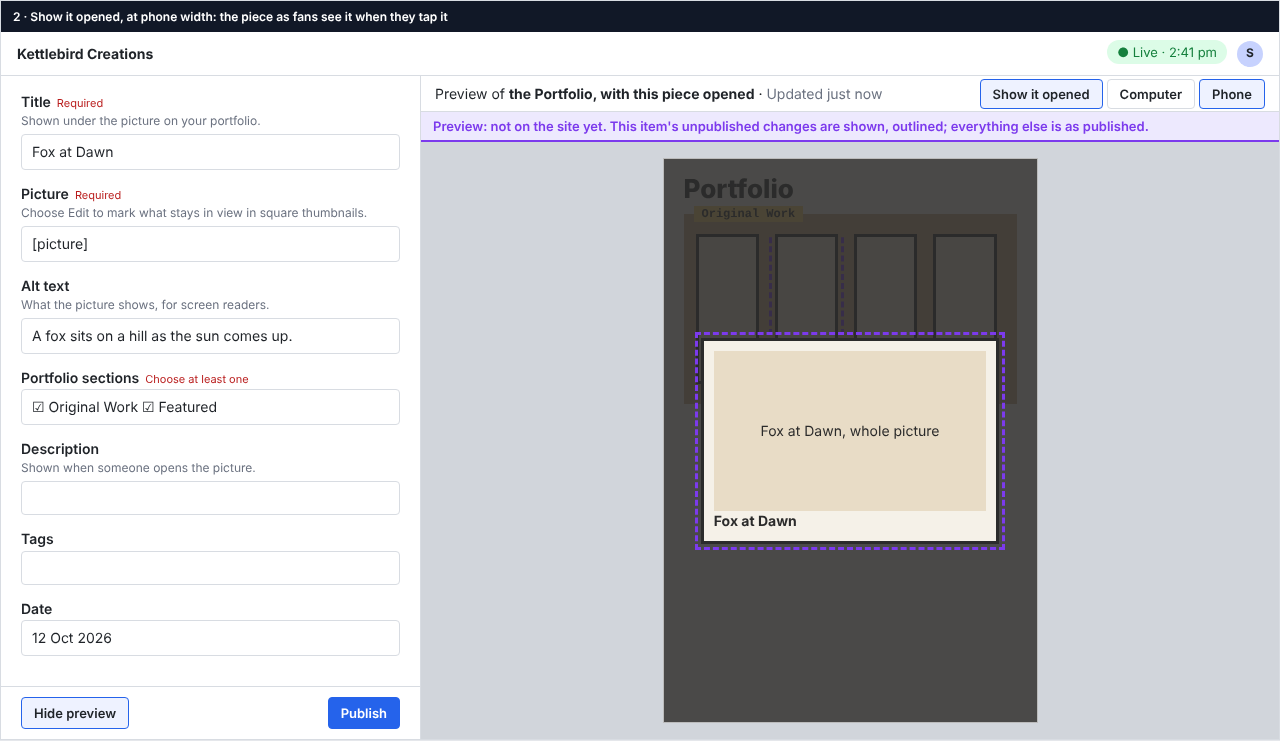
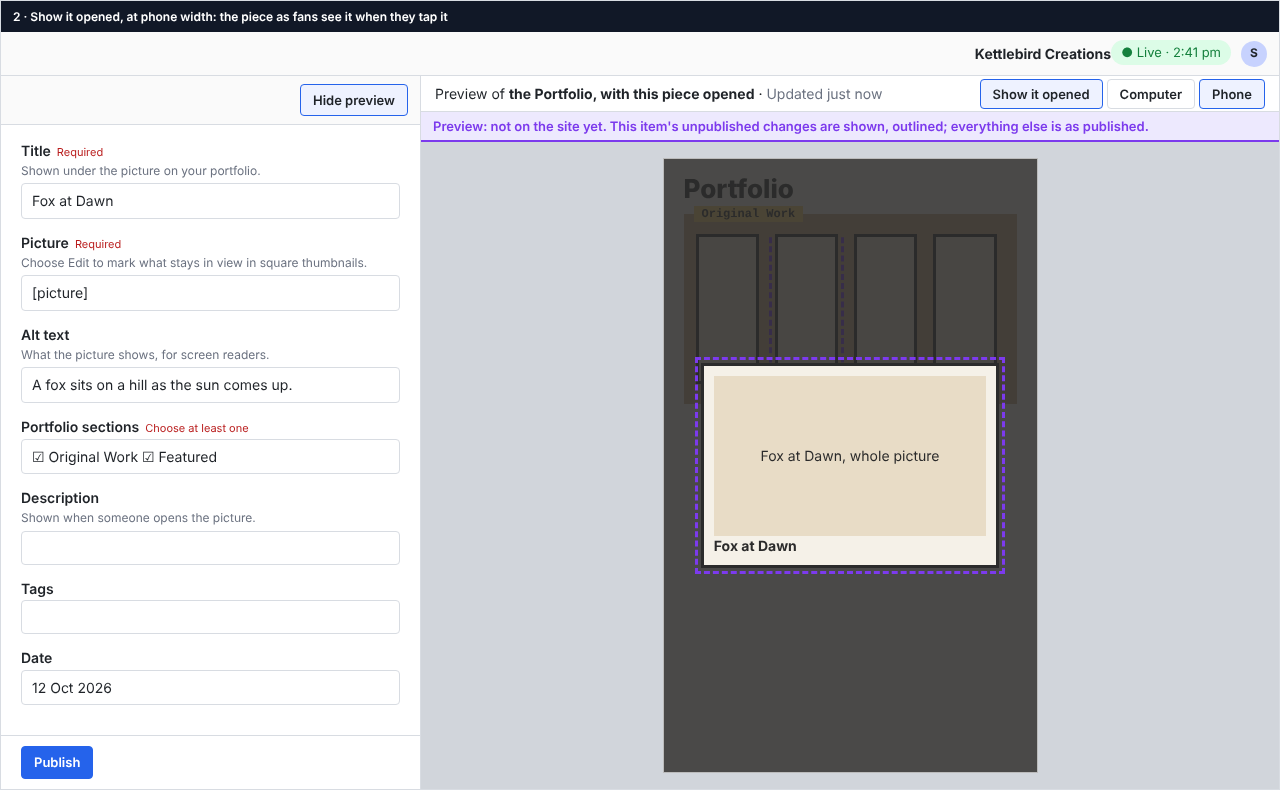
Preview design and guide: Preview at the top of the item, outlined parts, unpublished series (#100)
Lead's decisions (2026-11-03) after research for the spec: Sanity draws
only one button beside Publish, so Preview and Hide preview sit at the top
of the item; the menu and list narrow rather than fold away; a changed
part is outlined whole; a chapter of a never-published series shows the
series' draft too; the build never reads the draft-reading key, and the
build check also looks for the key. Mock-ups re-rendered.

Claude-Session: https://claude.ai/code/session_01HWRLNSVAoX5Ni8d8XcwJh1

diff --git a/docs/design/mockups/preview/mockups.html b/docs/design/mockups/preview/mockups.html
@@ -49,61 +49,62 @@
   .band .lab { position:absolute; top:-8px; left:10px; background:#f4ce6a; padding:1px 8px; font:600 12px ui-monospace,monospace; }
   .modal { position:absolute; inset:0; background:rgba(43,43,43,.85); display:flex; align-items:center; justify-content:center; }
   .modal .box { background:#f5f1e8; border:3px solid #2b2b2b; width:80%; padding:10px; font-family:system-ui; }
+  .top { display: flex; justify-content: flex-end; padding: 8px 12px; border-bottom: 1px solid var(--line); background: #fafafa; }
 </style>
 </head>
 <body>
 <div class="frame" id="m1">
 <h6>1 · An art piece: the preview at computer width, scrolled to the piece in its first portfolio section</h6>
 <div class="top"><strong>Kettlebird Creations</strong><span><span class="status">● Live · 2:41 pm</span><span class="avatar">S</span></span></div>
-<div class="split"><div class="form"><div class="doc"><div class="field"><label>Title<span class="req">Required</span></label><p class="help">Shown under the picture on your portfolio.</p><div class="input">Fox at Dawn</div></div><div class="field"><label>Picture<span class="req">Required</span></label><p class="help">Choose Edit to mark what stays in view in square thumbnails.</p><div class="input">[picture]</div></div><div class="field"><label>Alt text</label><p class="help">What the picture shows, for screen readers.</p><div class="input">A fox sits on a hill as the sun comes up.</div></div><div class="field"><label>Portfolio sections<span class="req">Choose at least one</span></label><div class="input">☑ Original Work ☑ Featured</div></div><div class="field"><label>Description</label><p class="help">Shown when someone opens the picture.</p><div class="input"></div></div><div class="field"><label>Tags</label><div class="input"></div></div><div class="field"><label>Date</label><div class="input">12 Oct 2026</div></div></div><div class="bar"><span class="btn on">Hide preview</span><span class="btn primary">Publish</span></div></div><div class="pv"><div class="pvbar"><span>Preview of <strong>the Portfolio</strong> · <span style="color:var(--muted)">Updated just now</span></span><span> <span class="btn">Show it opened</span> <span><span class="btn on">Computer</span> <span class="btn">Phone</span></span></span></div><div class="ribbon">Preview: not on the site yet. This item&#39;s unpublished changes are shown, outlined; everything else is as published.</div><div class="hint">Not visible on the page: <strong>alt text</strong> (read by screen readers). Also in: Featured.</div><div class="stage"><div class="page" style="position:relative"><div class="site"><h1>Portfolio</h1><p class="note">Index: All · Original Work · Fan Work · Featured</p><div class="band"><span class="lab">Original Work</span><div class="carousel"><span class="card">&nbsp;</span><span class="card chg">&nbsp;</span><span class="card">&nbsp;</span><span class="card">&nbsp;</span></div></div><p class="note">Scrolled to Original Work, the first of its sections, with the carousel moved to the piece. Titles show on hover, as on the site.</p></div></div></div></div></div>
+<div class="split"><div class="form"><div class="top"><span class="btn on">Hide preview</span></div><div class="doc"><div class="field"><label>Title<span class="req">Required</span></label><p class="help">Shown under the picture on your portfolio.</p><div class="input">Fox at Dawn</div></div><div class="field"><label>Picture<span class="req">Required</span></label><p class="help">Choose Edit to mark what stays in view in square thumbnails.</p><div class="input">[picture]</div></div><div class="field"><label>Alt text</label><p class="help">What the picture shows, for screen readers.</p><div class="input">A fox sits on a hill as the sun comes up.</div></div><div class="field"><label>Portfolio sections<span class="req">Choose at least one</span></label><div class="input">☑ Original Work ☑ Featured</div></div><div class="field"><label>Description</label><p class="help">Shown when someone opens the picture.</p><div class="input"></div></div><div class="field"><label>Tags</label><div class="input"></div></div><div class="field"><label>Date</label><div class="input">12 Oct 2026</div></div></div><div class="bar"><span class="btn primary">Publish</span></div></div><div class="pv"><div class="pvbar"><span>Preview of <strong>the Portfolio</strong> · <span style="color:var(--muted)">Updated just now</span></span><span> <span class="btn">Show it opened</span> <span><span class="btn on">Computer</span> <span class="btn">Phone</span></span></span></div><div class="ribbon">Preview: not on the site yet. This item&#39;s unpublished changes are shown, outlined; everything else is as published.</div><div class="hint">Not visible on the page: <strong>alt text</strong> (read by screen readers). Also in: Featured.</div><div class="stage"><div class="page" style="position:relative"><div class="site"><h1>Portfolio</h1><p class="note">Index: All · Original Work · Fan Work · Featured</p><div class="band"><span class="lab">Original Work</span><div class="carousel"><span class="card">&nbsp;</span><span class="card chg">&nbsp;</span><span class="card">&nbsp;</span><span class="card">&nbsp;</span></div></div><p class="note">Scrolled to Original Work, the first of its sections, with the carousel moved to the piece. Titles show on hover, as on the site.</p></div></div></div></div></div>
 </div>
 
 <div class="frame" id="m2">
 <h6>2 · Show it opened, at phone width: the piece as fans see it when they tap it</h6>
 <div class="top"><strong>Kettlebird Creations</strong><span><span class="status">● Live · 2:41 pm</span><span class="avatar">S</span></span></div>
-<div class="split"><div class="form"><div class="doc"><div class="field"><label>Title<span class="req">Required</span></label><p class="help">Shown under the picture on your portfolio.</p><div class="input">Fox at Dawn</div></div><div class="field"><label>Picture<span class="req">Required</span></label><p class="help">Choose Edit to mark what stays in view in square thumbnails.</p><div class="input">[picture]</div></div><div class="field"><label>Alt text</label><p class="help">What the picture shows, for screen readers.</p><div class="input">A fox sits on a hill as the sun comes up.</div></div><div class="field"><label>Portfolio sections<span class="req">Choose at least one</span></label><div class="input">☑ Original Work ☑ Featured</div></div><div class="field"><label>Description</label><p class="help">Shown when someone opens the picture.</p><div class="input"></div></div><div class="field"><label>Tags</label><div class="input"></div></div><div class="field"><label>Date</label><div class="input">12 Oct 2026</div></div></div><div class="bar"><span class="btn on">Hide preview</span><span class="btn primary">Publish</span></div></div><div class="pv"><div class="pvbar"><span>Preview of <strong>the Portfolio, with this piece opened</strong> · <span style="color:var(--muted)">Updated just now</span></span><span> <span class="btn on">Show it opened</span> <span><span class="btn">Computer</span> <span class="btn on">Phone</span></span></span></div><div class="ribbon">Preview: not on the site yet. This item&#39;s unpublished changes are shown, outlined; everything else is as published.</div><div class="stage"><div class="page phone" style="position:relative"><div class="site" style="min-height:420px"><h1>Portfolio</h1><div class="band"><span class="lab">Original Work</span><div class="carousel"><span class="card">&nbsp;</span><span class="card chg">&nbsp;</span><span class="card">&nbsp;</span><span class="card">&nbsp;</span></div></div><div class="modal"><div class="box chg"><div style="height:160px;background:#e8dcc6;display:flex;align-items:center;justify-content:center">Fox at Dawn, whole picture</div><strong>Fox at Dawn</strong></div></div></div></div></div></div></div>
+<div class="split"><div class="form"><div class="top"><span class="btn on">Hide preview</span></div><div class="doc"><div class="field"><label>Title<span class="req">Required</span></label><p class="help">Shown under the picture on your portfolio.</p><div class="input">Fox at Dawn</div></div><div class="field"><label>Picture<span class="req">Required</span></label><p class="help">Choose Edit to mark what stays in view in square thumbnails.</p><div class="input">[picture]</div></div><div class="field"><label>Alt text</label><p class="help">What the picture shows, for screen readers.</p><div class="input">A fox sits on a hill as the sun comes up.</div></div><div class="field"><label>Portfolio sections<span class="req">Choose at least one</span></label><div class="input">☑ Original Work ☑ Featured</div></div><div class="field"><label>Description</label><p class="help">Shown when someone opens the picture.</p><div class="input"></div></div><div class="field"><label>Tags</label><div class="input"></div></div><div class="field"><label>Date</label><div class="input">12 Oct 2026</div></div></div><div class="bar"><span class="btn primary">Publish</span></div></div><div class="pv"><div class="pvbar"><span>Preview of <strong>the Portfolio, with this piece opened</strong> · <span style="color:var(--muted)">Updated just now</span></span><span> <span class="btn on">Show it opened</span> <span><span class="btn">Computer</span> <span class="btn on">Phone</span></span></span></div><div class="ribbon">Preview: not on the site yet. This item&#39;s unpublished changes are shown, outlined; everything else is as published.</div><div class="stage"><div class="page phone" style="position:relative"><div class="site" style="min-height:420px"><h1>Portfolio</h1><div class="band"><span class="lab">Original Work</span><div class="carousel"><span class="card">&nbsp;</span><span class="card chg">&nbsp;</span><span class="card">&nbsp;</span><span class="card">&nbsp;</span></div></div><div class="modal"><div class="box chg"><div style="height:160px;background:#e8dcc6;display:flex;align-items:center;justify-content:center">Fox at Dawn, whole picture</div><strong>Fox at Dawn</strong></div></div></div></div></div></div></div>
 </div>
 
 <div class="frame" id="m3">
 <h6>3 · A chapter: the preview follows the page open in the page panel</h6>
 <div class="top"><strong>Kettlebird Creations</strong><span><span class="status">● Live · 2:41 pm</span><span class="avatar">S</span></span></div>
-<div class="split"><div class="form"><div class="doc"><div class="field"><label>Chapter<span class="req">Required</span></label><div class="input">2</div></div><div class="field"><label>Title</label><div class="input">The Long Road</div></div><div class="field"><label>Pages</label><div class="input">[24 thumbnails] · page 3 open</div></div><div class="field" style="border:1px solid var(--line);border-radius:6px;padding:10px;background:#fafafa"><label>Page 3</label><div class="input" style="height:70px">[page image]</div><div class="field"><label>Alt text</label><div class="input">Fox and Kettle cross the river at dusk.</div></div><span class="btn">Previous page</span> <span class="btn">Next page</span> <span class="btn">Done</span></div></div><div class="bar"><span class="btn on">Hide preview</span><span class="btn primary">Publish</span></div></div><div class="pv"><div class="pvbar"><span>Preview of <strong>Chapter 2, page 3 in the reader</strong> · <span style="color:var(--muted)">Updated just now</span></span><span> <span><span class="btn on">Computer</span> <span class="btn">Phone</span></span></span></div><div class="ribbon">Preview: not on the site yet. This item&#39;s unpublished changes are shown, outlined; everything else is as published.</div><div class="hint">Not visible on the page: <strong>alt text</strong>. Links in the preview don&#39;t go anywhere; choose another page in the chapter to preview it.</div><div class="stage"><div class="page" style="position:relative"><div class="site"><div class="note">← Back to series &nbsp;&nbsp; <strong>Chapter 2: The Long Road · Page 3 of 24</strong></div><div class="light chg" style="text-align:center"><div class="img" style="height:260px">page 3</div></div><div class="note">Previous page &nbsp; Next page</div></div></div></div></div></div>
+<div class="split"><div class="form"><div class="top"><span class="btn on">Hide preview</span></div><div class="doc"><div class="field"><label>Chapter<span class="req">Required</span></label><div class="input">2</div></div><div class="field"><label>Title</label><div class="input">The Long Road</div></div><div class="field"><label>Pages</label><div class="input">[24 thumbnails] · page 3 open</div></div><div class="field" style="border:1px solid var(--line);border-radius:6px;padding:10px;background:#fafafa"><label>Page 3</label><div class="input" style="height:70px">[page image]</div><div class="field"><label>Alt text</label><div class="input">Fox and Kettle cross the river at dusk.</div></div><span class="btn">Previous page</span> <span class="btn">Next page</span> <span class="btn">Done</span></div></div><div class="bar"><span class="btn primary">Publish</span></div></div><div class="pv"><div class="pvbar"><span>Preview of <strong>Chapter 2, page 3 in the reader</strong> · <span style="color:var(--muted)">Updated just now</span></span><span> <span><span class="btn on">Computer</span> <span class="btn">Phone</span></span></span></div><div class="ribbon">Preview: not on the site yet. This item&#39;s unpublished changes are shown, outlined; everything else is as published.</div><div class="hint">Not visible on the page: <strong>alt text</strong>. Links in the preview don&#39;t go anywhere; choose another page in the chapter to preview it.</div><div class="stage"><div class="page" style="position:relative"><div class="site"><div class="note">← Back to series &nbsp;&nbsp; <strong>Chapter 2: The Long Road · Page 3 of 24</strong></div><div class="light chg" style="text-align:center"><div class="img" style="height:260px">page 3</div></div><div class="note">Previous page &nbsp; Next page</div></div></div></div></div></div>
 </div>
 
 <div class="frame" id="m4">
 <h6>4 · A series</h6>
 <div class="top"><strong>Kettlebird Creations</strong><span><span class="status">● Live · 2:41 pm</span><span class="avatar">S</span></span></div>
-<div class="split"><div class="form"><div class="doc"><div class="field"><label>Title<span class="req">Required</span></label><div class="input">Kettle Tales</div></div><div class="field"><label>Web address<span class="req">Required</span></label><div class="input">kettle-tales</div></div><div class="field"><label>Cover</label><div class="input">[picture]</div></div><div class="field"><label>Description</label><div class="input">A fox and a kettle set out across the hills, and keep going.</div></div><div class="field"><label>Status</label><div class="input">Ongoing</div></div><div class="field"><label>Kind</label><div class="input">Original</div></div><div class="field"><label>Chapters</label><div class="input">Chapter 1 · Chapter 2</div></div></div><div class="bar"><span class="btn on">Hide preview</span><span class="btn primary">Publish</span></div></div><div class="pv"><div class="pvbar"><span>Preview of <strong>the Kettle Tales series page</strong> · <span style="color:var(--muted)">Updated just now</span></span><span> <span><span class="btn on">Computer</span> <span class="btn">Phone</span></span></span></div><div class="ribbon">Preview: not on the site yet. This item&#39;s unpublished changes are shown, outlined; everything else is as published.</div><div class="stage"><div class="page" style="position:relative"><div class="site"><div style="display:grid;grid-template-columns:150px 1fr;gap:16px"><div class="card" style="width:140px;height:200px">cover</div><div><h1>Kettle Tales</h1><p><span class="tag">Ongoing</span><span class="tag" style="background:#f5f1e8">Original</span></p><p class="chg">A fox and a kettle set out across the hills, and keep going.</p><span class="btn">Start reading</span></div></div><h2 style="font:700 16px system-ui;margin-top:12px">Chapters</h2><p class="note">Chapter 1: The Kettle · 3 pages<br>Chapter 2: The Long Road · 24 pages</p></div></div></div></div></div>
+<div class="split"><div class="form"><div class="top"><span class="btn on">Hide preview</span></div><div class="doc"><div class="field"><label>Title<span class="req">Required</span></label><div class="input">Kettle Tales</div></div><div class="field"><label>Web address<span class="req">Required</span></label><div class="input">kettle-tales</div></div><div class="field"><label>Cover</label><div class="input">[picture]</div></div><div class="field"><label>Description</label><div class="input">A fox and a kettle set out across the hills, and keep going.</div></div><div class="field"><label>Status</label><div class="input">Ongoing</div></div><div class="field"><label>Kind</label><div class="input">Original</div></div><div class="field"><label>Chapters</label><div class="input">Chapter 1 · Chapter 2</div></div></div><div class="bar"><span class="btn primary">Publish</span></div></div><div class="pv"><div class="pvbar"><span>Preview of <strong>the Kettle Tales series page</strong> · <span style="color:var(--muted)">Updated just now</span></span><span> <span><span class="btn on">Computer</span> <span class="btn">Phone</span></span></span></div><div class="ribbon">Preview: not on the site yet. This item&#39;s unpublished changes are shown, outlined; everything else is as published.</div><div class="stage"><div class="page" style="position:relative"><div class="site"><div style="display:grid;grid-template-columns:150px 1fr;gap:16px"><div class="card" style="width:140px;height:200px">cover</div><div><h1>Kettle Tales</h1><p><span class="tag">Ongoing</span><span class="tag" style="background:#f5f1e8">Original</span></p><p class="chg">A fox and a kettle set out across the hills, and keep going.</p><span class="btn">Start reading</span></div></div><h2 style="font:700 16px system-ui;margin-top:12px">Chapters</h2><p class="note">Chapter 1: The Kettle · 3 pages<br>Chapter 2: The Long Road · 24 pages</p></div></div></div></div></div>
 </div>
 
 <div class="frame" id="m5">
 <h6>5 · Site settings, Commissions: closing them</h6>
 <div class="top"><strong>Kettlebird Creations</strong><span><span class="status">● Live · 2:41 pm</span><span class="avatar">S</span></span></div>
-<div class="split"><div class="form"><div class="doc"><div class="field"><label>Commissions are…<span class="req">Required</span></label><div class="input">○ Open &nbsp; ◉ Closed</div></div><div class="field"><label>Note when closed</label><div class="input">Back in March.</div></div></div><div class="bar"><span class="btn on">Hide preview</span><span class="btn primary">Publish</span></div></div><div class="pv"><div class="pvbar"><span>Preview of <strong>the Commissions page</strong> · <span style="color:var(--muted)">Updated just now</span></span><span> <span><span class="btn on">Computer</span> <span class="btn">Phone</span></span></span></div><div class="ribbon">Preview: not on the site yet. This item&#39;s unpublished changes are shown, outlined; everything else is as published.</div><div class="hint">Removed from the page: <strong>How it works</strong>, <strong>Ready to order?</strong> and the commission email buttons.</div><div class="stage"><div class="page" style="position:relative"><div class="site"><h1>Commissions</h1><div class="banner chg"><span class="dot"></span><span><strong>Commissions are closed.</strong> Back in March.</span></div><p style="font-family:system-ui">These are the kinds of commission I take, for when they open again.</p></div></div></div></div></div>
+<div class="split"><div class="form"><div class="top"><span class="btn on">Hide preview</span></div><div class="doc"><div class="field"><label>Commissions are…<span class="req">Required</span></label><div class="input">○ Open &nbsp; ◉ Closed</div></div><div class="field"><label>Note when closed</label><div class="input">Back in March.</div></div></div><div class="bar"><span class="btn primary">Publish</span></div></div><div class="pv"><div class="pvbar"><span>Preview of <strong>the Commissions page</strong> · <span style="color:var(--muted)">Updated just now</span></span><span> <span><span class="btn on">Computer</span> <span class="btn">Phone</span></span></span></div><div class="ribbon">Preview: not on the site yet. This item&#39;s unpublished changes are shown, outlined; everything else is as published.</div><div class="hint">Removed from the page: <strong>How it works</strong>, <strong>Ready to order?</strong> and the commission email buttons.</div><div class="stage"><div class="page" style="position:relative"><div class="site"><h1>Commissions</h1><div class="banner chg"><span class="dot"></span><span><strong>Commissions are closed.</strong> Back in March.</span></div><p style="font-family:system-ui">These are the kinds of commission I take, for when they open again.</p></div></div></div></div></div>
 </div>
 
 <div class="frame" id="m6">
 <h6>6 · Site settings, Contact and social links: scrolled to the change</h6>
 <div class="top"><strong>Kettlebird Creations</strong><span><span class="status">● Live · 2:41 pm</span><span class="avatar">S</span></span></div>
-<div class="split"><div class="form"><div class="doc"><div class="field"><label>Contact email<span class="req">Required</span></label><div class="input">star@kettlebird.com</div></div><div class="field"><label>Social links</label><div class="input">Bluesky · Tumblr · Ko-fi</div></div></div><div class="bar"><span class="btn on">Hide preview</span><span class="btn primary">Publish</span></div></div><div class="pv"><div class="pvbar"><span>Preview of <strong>the home page, scrolled to the social links and footer</strong> · <span style="color:var(--muted)">Updated just now</span></span><span> <span><span class="btn on">Computer</span> <span class="btn">Phone</span></span></span></div><div class="ribbon">Preview: not on the site yet. This item&#39;s unpublished changes are shown, outlined; everything else is as published.</div><div class="hint">Removed: <strong>Instagram</strong> link. Not visible on the page: where the email buttons send people (now star@kettlebird.com).</div><div class="stage"><div class="page" style="position:relative"><div class="site"><p class="note">… home page, scrolled to the bottom …</p><p class="soc chg"><span class="btn">BLUESKY</span> <span class="btn">TUMBLR</span> <span class="btn">KO-FI</span></p></div><div style="background:#2b2b2b;color:#f5f1e8;padding:12px;font-family:system-ui" class="chg">Connect · Bluesky · Tumblr · Ko-fi &nbsp; Contact · star@kettlebird.com</div></div></div></div></div>
+<div class="split"><div class="form"><div class="top"><span class="btn on">Hide preview</span></div><div class="doc"><div class="field"><label>Contact email<span class="req">Required</span></label><div class="input">star@kettlebird.com</div></div><div class="field"><label>Social links</label><div class="input">Bluesky · Tumblr · Ko-fi</div></div></div><div class="bar"><span class="btn primary">Publish</span></div></div><div class="pv"><div class="pvbar"><span>Preview of <strong>the home page, scrolled to the social links and footer</strong> · <span style="color:var(--muted)">Updated just now</span></span><span> <span><span class="btn on">Computer</span> <span class="btn">Phone</span></span></span></div><div class="ribbon">Preview: not on the site yet. This item&#39;s unpublished changes are shown, outlined; everything else is as published.</div><div class="hint">Removed: <strong>Instagram</strong> link. Not visible on the page: where the email buttons send people (now star@kettlebird.com).</div><div class="stage"><div class="page" style="position:relative"><div class="site"><p class="note">… home page, scrolled to the bottom …</p><p class="soc chg"><span class="btn">BLUESKY</span> <span class="btn">TUMBLR</span> <span class="btn">KO-FI</span></p></div><div style="background:#2b2b2b;color:#f5f1e8;padding:12px;font-family:system-ui" class="chg">Connect · Bluesky · Tumblr · Ko-fi &nbsp; Contact · star@kettlebird.com</div></div></div></div></div>
 </div>
 
 <div class="frame" id="m7">
 <h6>7 · After Publish: the preview says so, and stops outlining once the site has it</h6>
 <div class="top"><strong>Kettlebird Creations</strong><span><span class="status">● Live · 2:41 pm</span><span class="avatar">S</span></span></div>
-<div class="split"><div class="form"><div class="doc"><div class="field"><label>Commissions are…<span class="req">Required</span></label><div class="input">○ Open &nbsp; ◉ Closed</div></div><div class="field"><label>Note when closed</label><div class="input">Back in March.</div></div></div><div class="bar"><span class="btn on">Hide preview</span><span class="btn primary">Publish</span></div></div><div class="pv"><div class="pvbar"><span>Preview of <strong>the Commissions page</strong> · <span style="color:var(--muted)">Updated just now</span></span><span> <span><span class="btn on">Computer</span> <span class="btn">Phone</span></span></span></div><div class="ribbon" style="background:#dcfce7;color:#15803d;border-color:#15803d">Published. The site matches this preview once the status at the top right says Live.</div><div class="stage"><div class="page" style="position:relative"><div class="site"><h1>Commissions</h1><div class="banner"><span class="dot"></span><span><strong>Commissions are closed.</strong> Back in March.</span></div></div></div></div></div></div>
+<div class="split"><div class="form"><div class="top"><span class="btn on">Hide preview</span></div><div class="doc"><div class="field"><label>Commissions are…<span class="req">Required</span></label><div class="input">○ Open &nbsp; ◉ Closed</div></div><div class="field"><label>Note when closed</label><div class="input">Back in March.</div></div></div><div class="bar"><span class="btn primary">Publish</span></div></div><div class="pv"><div class="pvbar"><span>Preview of <strong>the Commissions page</strong> · <span style="color:var(--muted)">Updated just now</span></span><span> <span><span class="btn on">Computer</span> <span class="btn">Phone</span></span></span></div><div class="ribbon" style="background:#dcfce7;color:#15803d;border-color:#15803d">Published. The site matches this preview once the status at the top right says Live.</div><div class="stage"><div class="page" style="position:relative"><div class="site"><h1>Commissions</h1><div class="banner"><span class="dot"></span><span><strong>Commissions are closed.</strong> Back in March.</span></div></div></div></div></div></div>
 </div>
 
 <div class="frame" id="m8">
-<h6>8 · Before the preview is open: Preview beside Publish</h6>
+<h6>8 · Before the preview is open: Preview at the top of the item</h6>
 <div class="top"><strong>Kettlebird Creations</strong><span><span class="status">● Live · 2:41 pm</span><span class="avatar">S</span></span></div>
-<div class="split" style="grid-template-columns:520px 1fr"><div class="form"><div class="doc"><div class="field"><label>Title<span class="req">Required</span></label><div class="input">Fox at Dawn</div></div><div class="field"><label>Picture<span class="req">Required</span></label><div class="input">[picture]</div></div></div><div class="bar"><span class="btn">Preview</span><span class="btn primary">Publish</span></div></div><div class="msg" style="background:#eef0f3">The item takes the full width until Preview is chosen. While the preview is open, the menu and the list fold away, and come back with Hide preview.</div></div>
+<div class="split" style="grid-template-columns:520px 1fr"><div class="form"><div class="top"><span class="btn">Preview</span></div><div class="doc"><div class="field"><label>Title<span class="req">Required</span></label><div class="input">Fox at Dawn</div></div><div class="field"><label>Picture<span class="req">Required</span></label><div class="input">[picture]</div></div></div><div class="bar"><span class="btn primary">Publish</span></div></div><div class="msg" style="background:#eef0f3">The item takes the full width until Preview is chosen. While the preview is open, the menu and the list narrow to make room (the editor folds them to thin strips when the window is narrow), and widen again with Hide preview.</div></div>
 </div>
 
 <div class="frame" id="m9">
 <h6>9 · When the preview can&#39;t show the page</h6>
 <div class="top"><strong>Kettlebird Creations</strong><span><span class="status">● Live · 2:41 pm</span><span class="avatar">S</span></span></div>
-<div style="display:grid;grid-template-columns:1fr 1fr 1fr;gap:12px;padding:12px"><div class="pv" style="min-height:220px"><div class="pvbar"><span>Preview</span><span><span class="btn on">Computer</span> <span class="btn">Phone</span></span></div><div class="stage"><div class="page" style="background:#fff"><div class="msg">Choose a <strong>portfolio section</strong> to see where this piece goes.</div></div></div></div><div class="pv" style="min-height:220px"><div class="pvbar"><span>Preview</span><span><span class="btn on">Computer</span> <span class="btn">Phone</span></span></div><div class="stage"><div class="page" style="background:#fff"><div class="msg">Add a <strong>web address</strong> so readers can find this series. The preview needs it too.</div></div></div></div><div class="pv" style="min-height:220px"><div class="pvbar"><span>Preview</span><span><span class="btn on">Computer</span> <span class="btn">Phone</span></span></div><div class="stage"><div class="page" style="background:#fff"><div class="msg">Can&#39;t show the preview right now.<br><span class="btn" style="display:inline-block;margin-top:10px">Try again</span><br><span style="font-size:13px">Your changes are saved. You can still publish.</span></div></div></div></div></div>
+<div style="display:grid;grid-template-columns:1fr 1fr 1fr;gap:12px;padding:12px"><div class="pv" style="min-height:220px"><div class="pvbar"><span>Preview</span><span><span class="btn on">Computer</span> <span class="btn">Phone</span></span></div><div class="stage"><div class="page" style="background:#fff"><div class="msg">Choose a <strong>portfolio section</strong> to see where this piece goes.</div></div></div></div><div class="pv" style="min-height:220px"><div class="pvbar"><span>Preview</span><span><span class="btn on">Computer</span> <span class="btn">Phone</span></span></div><div class="stage"><div class="page" style="background:#fff"><div class="msg">Add a <strong>web address</strong> so readers can find this comic. The preview needs it too.</div></div></div></div><div class="pv" style="min-height:220px"><div class="pvbar"><span>Preview</span><span><span class="btn on">Computer</span> <span class="btn">Phone</span></span></div><div class="stage"><div class="page" style="background:#fff"><div class="msg">Can&#39;t show the preview right now.<br><span class="btn" style="display:inline-block;margin-top:10px">Try again</span><br><span style="font-size:13px">Your changes are saved. You can still publish.</span></div></div></div></div></div>
 </div>
 </body>
 </html>

diff --git a/docs/design/preview.md b/docs/design/preview.md
@@ -30,22 +30,22 @@ this design places it. -->
 - **The preview is the site's own page**, built by the site with the same components it uses for the real page. A crop, a line break, or a long title looks exactly as it will once published.
 - **It shows this item's unpublished changes only.** Everything else on the page is as published, so the preview shows exactly what **Publish** on this item will produce. Another half-finished draft, such as a bio Star is still writing, doesn't appear.
 - **Preview pages are separate from the public site**, at their own addresses under `/preview/`, made on demand. The editor opens them with a short-lived key that only the editor holds. Without it, a preview address shows **Page not found**. Preview pages are never cached, and search engines are told not to list them.
-- **The public site never reads drafts.** It's built from published content only, without the key that reads drafts. That key is held only by the preview pages on the live site; pull request previews and builds don't have it. A check on every build confirms that no unpublished content reached the built site, like the sign-in design's "no link to /studio" check.
+- **The public site never reads drafts.** It's built from published content only, and the build never reads the key that reads drafts. That key is set for the live site only (pull request previews don't have it), and only the preview pages read it, when Star opens one. A check on every build confirms that no unpublished content, and not the key itself, reached the built site, like the sign-in design's "no link to /studio" check.
 - The public pages, including **View on site**, never change mode: they always show what visitors see.
 
 ## Flow
 
-1. While editing an item, Star chooses **Preview**, beside **Publish** at the bottom of the item (mock-up 8).
-2. The editor makes room. The menu and list fold away, the form stays on the left, and the site page appears on the right (mock-ups 1 to 6). Above the page:
+1. While editing an item, Star chooses **Preview**, at the top of the item (mock-up 8). (It isn't beside **Publish**: the editor draws only one button there and puts any others in a menu, where **Preview** would be hidden, or would push **Publish** into it. Lead, 2026-11-03.)
+2. The editor makes room. The menu and list narrow (the editor folds them to thin strips when the window is narrow), the form stays on the left, and the site page appears on the right (mock-ups 1 to 6). Above the page:
    - which page it is, and when the preview last caught up ("Updated just now");
    - **Computer** and **Phone**, and for an art piece, **Show it opened**;
    - a fixed line that doesn't scroll away: "Preview: not on the site yet. This item's unpublished changes are shown, outlined; everything else is as published."
-3. The parts Star has changed are outlined in dashes. Anything Star changed that the page can't show, or removed, is listed in a yellow line under it. Examples: "Not visible on the page: alt text"; "Removed: Instagram link"; "Removed from the page: How it works".
+3. The parts Star has changed are outlined in dashes: a whole part, such as the picture, the title, the bio or the banner, even if only a word in it changed (lead, 2026-11-03). Anything Star changed that the page can't show, or removed, is listed in a yellow line under it. Examples: "Not visible on the page: alt text"; "Removed: Instagram link"; "Removed from the page: How it works".
 4. As Star types, changes a picture, or moves a crop, the preview catches up. Usually that takes a second or two after Star pauses, and "Updated just now" refreshes when it does.
 5. **Computer** shows the page at a laptop's width (1280 pixels), scaled to fit the space, so the layout is the computer one even in a narrow window. **Phone** shows it at a phone's width (375 pixels), full size. Star's choice is remembered.
 6. Links in the preview don't go anywhere. Pointing at one says "Links don't work in the preview". To preview another page of a chapter, Star opens it in the chapter.
 7. After **Publish**, the fixed line turns green: "Published. The site matches this preview once the status at the top right says Live." (mock-up 7). Once the status says **Live**, the outlines and lists go, because there's nothing unpublished left.
-8. **Hide preview** closes it, and the menu and list come back.
+8. **Hide preview**, where **Preview** was, closes it, and the menu and list widen again.
 
 ## Which page the preview shows, and where it scrolls
 
@@ -75,7 +75,7 @@ Low-fidelity. The left side is the editor (Sanity Studio), with the forms from d
 | 5 | Site settings, Commissions: closing them, with what's removed listed | `mockups/preview/5-commissions.png` |
 | 6 | Site settings, Contact and social links: scrolled to the change | `mockups/preview/6-contact-and-links.png` |
 | 7 | After **Publish** | `mockups/preview/7-after-publish.png` |
-| 8 | Before the preview is open: **Preview** beside **Publish** | `mockups/preview/8-before-preview.png` |
+| 8 | Before the preview is open: **Preview** at the top of the item | `mockups/preview/8-before-preview.png` |
 | 9 | When the preview can't show the page | `mockups/preview/9-cant-preview.png` |
 
 ## States and errors
@@ -89,7 +89,7 @@ Also:
 - **No picture on an art piece yet:** "Add the picture to preview it."
 - **A chapter with no pages yet:** "Add a page to preview this chapter." Visitors never see a chapter without pages (design-comic-start-reading).
 - **A chapter with the same number as another:** the preview shows it, with "Chapter 2 already exists in this series; publishing is blocked until you change one" in the yellow line.
-- **New, never-published items** (a series, a chapter in an unpublished series): shown in place as if published, outlined.
+- **New, never-published items** (a series, a chapter in an unpublished series): shown in place as if published, outlined. A chapter whose series has never been published is shown with the series' unpublished version too, the one exception to "this item's changes only", and the yellow line says "The series isn't published yet; it's shown as it will be." (lead, 2026-11-03).
 - **Still catching up:** the last preview stays in place, dimmed, until the new one arrives, so the page doesn't flash.
 - **A picture still uploading:** the preview shows it once the upload finishes.
 
@@ -103,12 +103,12 @@ Also:
 ## For the spec to check
 
 - Sanity's Presentation tool, or a document view, can show the preview page beside the form, fold the menu and list away, and update after edits, on the free plan. Check the API request limits at that rate.
-- **Preview** can sit beside **Publish** as its own button, not inside a menu. design-comic-publish-pages still puts **Preview** and **Publish** in the top bar; that's corrected with Star's guide to know-when-live.
+- **Preview** and **Hide preview** at the top of the item, as their own button (not in a menu), on every kind of item.
 - Astro serves the `/preview/` pages on demand on Vercel (an adapter, with only those pages on demand), reusing the real pages' components, with the reader and series pages refactored so their data can come from a draft.
 - Only this item's draft is used, with everything else published.
 - The access check: a short-lived key from the editor (Sanity's preview secret), the read token kept on the server and set for production only, and **Page not found** without it. Preview pages send no-cache and no-index headers. The framing rule allows the editor (design-sign-in's "only this site").
-- The public client reads published content only (perspective "published"), and a build check finds no draft documents.
-- Changed fields can be outlined, and removals and non-visible changes listed.
+- The public client reads published content only (perspective "published"), the build never reads the draft-reading key, and a build check finds no draft documents and not the key.
+- Changed parts can be outlined (a whole part per changed top-level field), and removals and non-visible changes listed.
 - The portfolio can open a given piece and move its carousel to it; the reader's and portfolio's scripts don't scroll the editor or take focus.
 - **Computer** at 1280 pixels scaled to fit; **Phone** at 375 pixels.
 

diff --git a/docs/user/previewing.md b/docs/user/previewing.md
@@ -2,10 +2,10 @@
 id: docs-previewing
 status: approved
 derived-from:
-  - design-preview#how-it-works: d2e8d6d643b1
-  - design-preview#flow: 007cd53fc75d
+  - design-preview#how-it-works: 11a7966f162b
+  - design-preview#flow: 257ebbac18cb
   - design-preview#which-page-the-preview-shows-and-where-it-scrolls: db9418c19513
-  - design-preview#states-and-errors: c33dec911302
+  - design-preview#states-and-errors: 1ef10d577e15
   - story-content-editing-preview: be2784e6f165
   - design-organised-editor#sections-and-fields: 20d25885468d
 ---
@@ -23,8 +23,8 @@ While you edit something, you can see it on its site page beside the form, exact
 **Preview** arrives with a later update to the editor; until then, the button isn't there, and this guide is for when it is.
 
 1. Open the item you're working on: an art piece, a chapter, a series, or one of the four items in **Site settings**. Stories, products and commission types can be previewed too.
-2. Choose **Preview**, beside **Publish** at the bottom of the item.
-3. The menu and list fold away. Your form stays on the left, and the site page appears on the right.
+2. Choose **Preview**, at the top of the item.
+3. The menu and list narrow to make room (on a small screen they fold to thin strips). Your form stays on the left, and the site page appears on the right.
 
 Above the page you'll see:
 
@@ -33,11 +33,11 @@ Above the page you'll see:
 - for an art piece, **Show it opened**;
 - a line that stays put while you scroll: "Preview: not on the site yet. This item's unpublished changes are shown, outlined; everything else is as published."
 
-To close it, choose **Hide preview**. The menu and list come back.
+To close it, choose **Hide preview**, where **Preview** was. The menu and list widen again.
 
 ## What the preview shows
 
-- Your changes, outlined. The parts you've changed have a dashed outline, so you can find them at a glance. The outline isn't on the real site.
+- Your changes, outlined. The parts you've changed have a dashed outline, so you can find them at a glance: a whole part, like the picture, the title or your bio, even if you changed one word in it. The outline isn't on the real site.
 - Only this item's changes. Everything else on the page is as it is on the site now. If you're halfway through your bio in another tab, it doesn't show up while you preview a comic page. The preview shows exactly what **Publish** on this item will do.
 - Changes the page can't show. Some changes don't appear on the page itself, like alt text, or something you removed. These are listed in a yellow line under the top line, for example "Not visible on the page: alt text", "Removed: Instagram link" or "Removed from the page: How it works". Check them in the form.
 
@@ -83,6 +83,6 @@ The preview never changes what's on the site, and **View on site** always shows 
 | The page looks dimmed | The preview is catching up with your latest change. | Wait a moment; the old preview stays until the new one is ready. |
 | A new picture isn't in the preview yet | It's still uploading. | Wait for the upload to finish. |
 
-Something you've never published, like a new series, shows in the preview as if it were already on the site, outlined.
+Something you've never published, like a new series, shows in the preview as if it were already on the site, outlined. If you preview a chapter of a series you haven't published yet, the series is shown as it will be too, and the yellow line says "The series isn't published yet; it's shown as it will be."
 
 If two chapters have the same number, the preview still shows the chapter, and the yellow line says "Chapter 2 already exists in this series; publishing is blocked until you change one". (The form says "Chapter 2 already exists in this series. Choose another number.") Change the number on one of them; you can't publish until you do.

diff --git a/docs/user/publishing-comics.md b/docs/user/publishing-comics.md
@@ -59,7 +59,7 @@ The top of the pages shows how many still need alt text ("3 pages need alt text"
 
 ## Publish
 
-1. To see a page as readers will, choose **Preview**, beside **Publish** at the bottom of the chapter. [See it before you publish](previewing.md) explains it. (It arrives with a later update to the editor; until then, the button isn't there.)
+1. To see a page as readers will, choose **Preview**, at the top of the chapter. [See it before you publish](previewing.md) explains it. (It arrives with a later update to the editor; until then, the button isn't there.)
 2. Choose **Publish**.
 3. If any pages still need alt text, or published links will change (below), the editor tells you first; choose **Publish anyway** to carry on, or **Cancel** to go back and fix it.
 4. The status at the top right shows **Updating the site…**, then **Live** with the time (see [When your change is live](going-live.md)).

diff --git a/docs/tutorials/publishing-comics.md b/docs/tutorials/publishing-comics.md
@@ -7,7 +7,7 @@ derived-from:
   - docs-publishing-comics#add-a-chapter: 6b9730bd5db8
   - docs-publishing-comics#add-pages: 0114dfedb96c
   - docs-publishing-comics#describe-each-page: c096de4c45a0
-  - docs-publishing-comics#publish: 0cbe993c76f2
+  - docs-publishing-comics#publish: 0fb6028735a2
   - docs-publishing-comics#if-links-will-change: 9488ad00a0a3
   - docs-publishing-comics#if-something-goes-wrong: c00d73719809
   - docs-publishing-comics#remove-a-comic: 7ccc4082f01b
